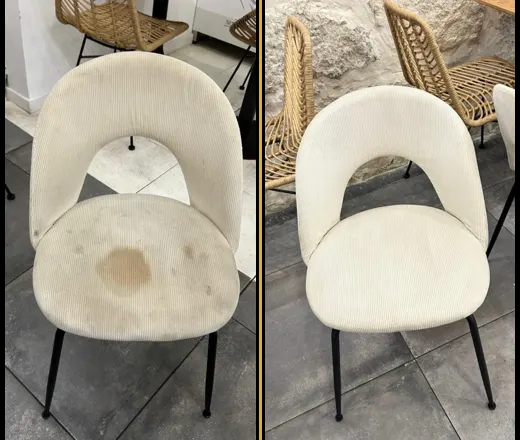
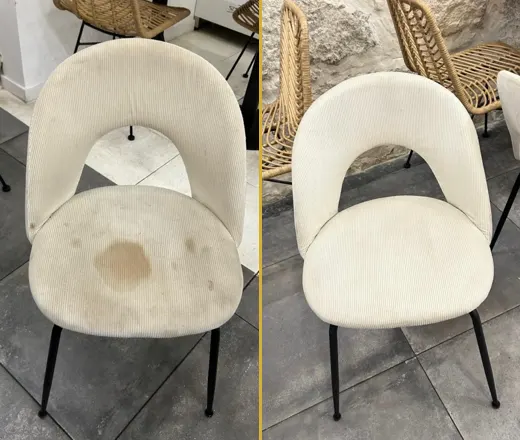
Questionário: corrige o riscado das cadeiras (multiplicava a deslocação por cada cadeira: 6 cadeiras de imper sozinha mostravam 234€ riscado em vez de 159€), agora o chairsWas do motor nos packs e o preço do conjunto no resto, e a linha das cadeiras no cesto; 'Quanto mais junta, mais poupa'; fotogra

diff --git a/src/components/quiz/VisitBasket.tsx b/src/components/quiz/VisitBasket.tsx
@@ -26,6 +26,8 @@ import chairsClip from '@/assets/cadeiras-processo/extracao.mp4';
 import rugClip from '@/assets/tapete-processo/maquina.mp4';
 import carpetClip from '@/assets/alcatifa-processo/extracao.mp4';
 import imperClip from '@/assets/before-after-pool/imper-agua-01.mp4';
+// Impermeabilização das cadeiras: a prova do funil (água em gotas numa cadeira), não a escova da limpeza (dono, 25 Nov).
+import imperChairsClip from '@/assets/before-after-pool/imper-agua-cadeira-01.mp4';
 // Cartões de limpeza com o antes e depois que mais vende (dono, 25 Nov: "a melhor foto antes e depois que vendesse
 // instantâneo"; imper continua com o vídeo). Pares do site, metade antes e metade depois do mesmo ângulo.
 import baSofa from '@/assets/quiz-antes-depois/sofa.webp';
@@ -196,8 +198,9 @@ function separateOf(city: string, it: BasketItem | BasketItem[]): number | null 
   const list = (Array.isArray(it) ? it : [it]).map(toQuote);
   if (!list.length || list.some(x => !x)) return null;
   // Colchão com anti-ácaros: o motor dá o riscado em mattressMitePack (limpeza + anti-ácaros à parte, 40€).
-  const r = botQuote({ city: city || 'Lisboa', items: list as QuoteItem[] }) as { separatePrice?: { separate?: number } | null; mattressMitePack?: { separate?: number } | null };
-  const v = r.separatePrice?.separate ?? r.mattressMitePack?.separate;
+  // Cadeiras com impermeabilização: chairsWas (1 cadeira × a quantidade, dono 24 Nov), só nos packs de 5 ou mais.
+  const r = botQuote({ city: city || 'Lisboa', items: list as QuoteItem[] }) as { separatePrice?: { separate?: number } | null; mattressMitePack?: { separate?: number } | null; chairsWas?: number | null };
+  const v = r.separatePrice?.separate ?? r.mattressMitePack?.separate ?? r.chairsWas;
   return typeof v === 'number' ? v : null;
 }
 /** Envio falhou (sessão SEO, 25 Nov): a mensagem de WhatsApp leva o pedido inteiro, porque o bot não o encontra no CRM. */
@@ -287,7 +290,7 @@ export default function VisitBasket({ isOpen, onClose, initialCity = '', initial
       if (h.skip > 0) { h.skip -= 1; return; }
       const s = live.current;
       if (s.level <= h.depth) return;
-      if (s.editing) setEditing(null); else if (s.imperPick) setImperPick(false); else if (s.step === 'contact') setStep('basket'); else s.onClose();
+      if (s.editing) { if (s.editing.imperOnly) setImperPick(true); setEditing(null); } else if (s.imperPick) setImperPick(false); else if (s.step === 'contact') setStep('basket'); else s.onClose();
     };
     window.addEventListener('popstate', onPop);
     return () => {
@@ -346,6 +349,8 @@ export default function VisitBasket({ isOpen, onClose, initialCity = '', initial
   const saveEditing = (group: BasketItem[]) => {
     if (!editing) return;
     setItems(list => { const at = list.findIndex(i => i.id === editing.id); const rest = list.filter(i => i.id !== editing.id); return at < 0 ? [...rest, ...group] : [...rest.slice(0, at), ...group, ...rest.slice(at)]; });
+    // Impermeabilização: volta a "O que vamos impermeabilizar?" para poder juntar a outra peça (dono, 25 Nov).
+    if (editing.imperOnly) setImperPick(true);
     setEditing(null);
   };
 
@@ -399,7 +404,7 @@ export default function VisitBasket({ isOpen, onClose, initialCity = '', initial
                 <div className="grid grid-cols-2 gap-2">
                   {ENTRY.map(e => (
                     <button key={e.key} type="button" onClick={() => pick(e)} className="group relative h-[104px] overflow-hidden rounded-2xl border border-[#D4AF37]/30 text-left active:scale-[0.98]">
-                      {e.ba ? <><img src={e.ba} alt={`${e.label}: antes e depois da limpeza`} className="absolute inset-0 h-full w-full object-cover" /></> : <video src={e.clip} poster={e.photo} autoPlay muted loop playsInline preload="metadata" aria-hidden="true" className="absolute inset-0 h-full w-full object-cover transition-transform duration-300 group-hover:scale-105" />}
+                      {e.ba ? <><img src={e.ba} alt={`${e.label}: antes e depois da limpeza`} className="absolute inset-0 h-full w-full object-cover" style={e.kind === 'chairs' ? { objectPosition: '50% 85%' } : undefined} /></> : <video src={e.clip} poster={e.photo} autoPlay muted loop playsInline preload="metadata" aria-hidden="true" className="absolute inset-0 h-full w-full object-cover transition-transform duration-300 group-hover:scale-105" />}
                       <span className="absolute inset-0 bg-gradient-to-t from-[#071a12]/90 via-[#071a12]/25 to-transparent" />
                       <span className="absolute inset-x-2.5 bottom-2">
                         <span className="block text-[15px] font-bold leading-tight text-white">{e.label}</span>
@@ -419,7 +424,7 @@ export default function VisitBasket({ isOpen, onClose, initialCity = '', initial
                     <QuizFurnitureImage service={isRug(it.kind) ? 'carpet' : it.kind} sizeId={it.size} className="h-12 w-12 sm:h-12 sm:w-12" />
                     <span className="min-w-0"><span className="block text-sm font-semibold leading-snug text-white">{itemLabel(it)}</span><span className="block text-xs font-semibold text-[#D4AF37]">Alterar</span></span>
                   </button>
-                  <span className="shrink-0 text-sm font-bold text-white">{(() => { const one = aloneTotal(city, { ...it, qty: 1 }); return one != null ? formatEuro(Math.round(one * it.qty * 100) / 100) : null; })()}</span>
+                  <span className="shrink-0 text-sm font-bold text-white">{(() => { const n = it.kind === 'chairs' ? 1 : it.qty; const one = aloneTotal(city, it.kind === 'chairs' ? it : { ...it, qty: 1 }); return one != null ? formatEuro(Math.round(one * n * 100) / 100) : null; })()}</span>
                   <button type="button" onClick={() => setItems(l => l.filter(x => x.id !== it.id))} aria-label={`Tirar ${itemLabel(it)}`} className="flex h-11 w-10 shrink-0 items-center justify-center text-white/45 hover:text-white"><Trash2 className="h-4 w-4" /></button>
                 </li>
               ))}
@@ -437,7 +442,7 @@ export default function VisitBasket({ isOpen, onClose, initialCity = '', initial
               <input list="basket-cities" value={city} onChange={e => setCity(e.target.value)} placeholder="Onde é o serviço?" className="h-11 min-w-0 flex-1 bg-transparent text-base text-white outline-none placeholder:text-white/35" />
               <datalist id="basket-cities">{cityNames.map(c => <option key={c} value={c} />)}</datalist>
             </label>
-            <p className="mb-1 text-base font-semibold text-white">Juntar à mesma <span style={{ color: GOLD }}>visita</span></p>
+            <p className="mb-1 text-base font-semibold text-white">Quanto mais junta, mais <span style={{ color: GOLD }}>poupa</span></p>
             {(() => {
               // "Se juntar X, poupa Y" (dono, 25 Nov): a peça que mais dá, pelo motor; sem nenhuma, a frase geral.
               const best = ENTRY.map(e => ({ e, p: promoOf(city, items, e) })).filter(x => x.p).sort((x, y) => y.p!.value - x.p!.value)[0];
@@ -448,7 +453,7 @@ export default function VisitBasket({ isOpen, onClose, initialCity = '', initial
                 const promo = promoOf(city, items, e);
                 return (
                 <button key={e.key} type="button" onClick={() => pick(e)} aria-label={`Juntar ${e.label}`} className={`group relative h-[118px] overflow-hidden rounded-2xl border text-left active:scale-[0.98] ${promo ? 'border-[#D4AF37]/70' : 'border-white/15'}`}>
-                  {e.ba ? <><img src={e.ba} alt={`${e.label}: antes e depois da limpeza`} className="absolute inset-0 h-full w-full object-cover" /></> : <video src={e.clip} poster={e.photo} autoPlay muted loop playsInline preload="metadata" aria-hidden="true" className="absolute inset-0 h-full w-full object-cover" />}
+                  {e.ba ? <><img src={e.ba} alt={`${e.label}: antes e depois da limpeza`} className="absolute inset-0 h-full w-full object-cover" style={e.kind === 'chairs' ? { objectPosition: '50% 85%' } : undefined} /></> : <video src={e.clip} poster={e.photo} autoPlay muted loop playsInline preload="metadata" aria-hidden="true" className="absolute inset-0 h-full w-full object-cover" />}
                   {/* Vidro neutro só atrás do texto, com o vídeo a ver-se através (dono, 25 Nov: "não tornas verde"). */}
                   <span className="absolute inset-x-0 bottom-0 flex items-end gap-1 bg-black/45 px-1.5 pb-1.5 pt-1 backdrop-blur-md">
                     <span className="min-w-0 flex-1">
@@ -500,18 +505,27 @@ export default function VisitBasket({ isOpen, onClose, initialCity = '', initial
           <div className="flex-1 overflow-y-auto px-4 pt-4">
             <h2 className="type-section-title font-playfair mb-4 text-white">O que vamos <em className="not-italic" style={{ color: GOLD }}>impermeabilizar?</em></h2>
             <div className="grid grid-cols-2 gap-3">
-              {([{ kind: 'sofa', label: 'Sofá', clip: imperClip, photo: imperPhoto }, { kind: 'chairs', label: 'Cadeiras', clip: chairsClip, photo: PHOTO.chairs }] as const).map(o => (
+              {([{ kind: 'sofa', label: 'Sofá', clip: imperClip, photo: imperPhoto }, { kind: 'chairs', label: 'Cadeiras', clip: imperChairsClip, photo: PHOTO.chairs }] as const).map(o => (
                 <button key={o.kind} type="button" onClick={() => { setImperPick(false); setEditing(newItem(o.kind, { pack: 'premium', imperOnly: true })); }} className="group relative h-40 overflow-hidden rounded-2xl border border-[#D4AF37]/50 text-left active:scale-[0.98]">
                   <video src={o.clip} poster={o.photo} autoPlay muted loop playsInline preload="metadata" aria-hidden="true" className="absolute inset-0 h-full w-full object-cover" />
                   <span className="absolute inset-x-0 bottom-0 flex items-center justify-between bg-black/45 px-3 py-2 backdrop-blur-md"><span className="text-lg font-bold text-white">{o.label}</span><Plus className="h-5 w-5" style={{ color: GOLD }} strokeWidth={3} /></span>
                 </button>
               ))}
             </div>
-            <p className="mt-3 text-xs text-white/60">Só em tecido. Para limpar e impermeabilizar na mesma visita, escolha o sofá ou as cadeiras no ecrã anterior.</p>
+            {(() => {
+              const done = items.filter(i => i.imperOnly);
+              if (!done.length) return <p className="mt-3 text-xs text-white/60">Só em tecido. Para limpar e impermeabilizar na mesma visita, escolha o sofá ou as cadeiras no ecrã anterior.</p>;
+              const has = (k: BasketKind) => done.some(i => i.kind === k);
+              return <div className="mt-4 rounded-2xl border border-[#D4AF37]/30 bg-white/[0.04] p-3">
+                <ul className="mb-2 space-y-1">{done.map(i => <li key={i.id} className="flex items-center gap-2 text-sm font-semibold text-white"><Check className="h-4 w-4 shrink-0" style={{ color: GOLD }} />{itemLabel(i)}</li>)}</ul>
+                <p className="mb-3 text-sm text-[#E8C964]">{has('sofa') && has('chairs') ? 'Sofá e cadeiras impermeabilizados na mesma visita.' : has('chairs') ? 'Junte também o sofá e deixe tudo impermeabilizado.' : 'Junte também as cadeiras e deixe tudo impermeabilizado.'}</p>
+                <button type="button" onClick={() => setImperPick(false)} className="min-h-12 w-full rounded-2xl bg-gradient-to-r from-[#D4AF37] to-[#E8C964] text-base font-bold text-[#0B2F2A]">Seguir para o cesto</button>
+              </div>;
+            })()}
           </div>
         </div>
       )}
-      {editing && <ItemSheet item={editing} fresh={!items.some(i => i.id === editing.id)} city={city} others={items.filter(i => i.id !== editing.id)} onChange={setEditing} onSave={saveEditing} onCancel={() => setEditing(null)} />}
+      {editing && <ItemSheet item={editing} fresh={!items.some(i => i.id === editing.id)} city={city} others={items.filter(i => i.id !== editing.id)} onChange={setEditing} onSave={saveEditing} onCancel={() => { if (editing.imperOnly && !items.some(i => i.id === editing.id)) setImperPick(true); setEditing(null); }} />}
     </div>
     </div>
   );
@@ -586,7 +600,11 @@ function ItemSheet({ item, fresh, city, others, onChange, onSave, onCancel }: { 
   // a deslocação já está paga, por isso mostra-se a linha destas peças na visita (sem a 2.ª deslocação); riscado =
   // as mesmas peças pedidas sozinhas (Blindado/Protegido: limpeza e impermeabilização em separado, separatePrice).
   // Riscado = cada peça pedida sozinha, com a sua deslocação (e, no pack, limpeza e impermeabilização em separado), somado.
-  const sepUnits = (g: BasketItem[]) => { let t = 0; for (const x of g) { const one = { ...x, qty: 1 }; const v = separateOf(city, one) ?? aloneTotal(city, one); if (v === null) return null; t += v * x.qty; } return g.length ? Math.round(t * 100) / 100 : null; };
+  const sepUnits = (g: BasketItem[]) => { let t = 0; for (const x of g) {
+    // As cadeiras têm escalões e uma só deslocação: a peça é o conjunto, nunca 1 cadeira × quantidade.
+    const n = x.kind === 'chairs' ? 1 : x.qty, one = x.kind === 'chairs' ? x : { ...x, qty: 1 };
+    const v = separateOf(city, one) ?? aloneTotal(city, one); if (v === null) return null; t += v * n;
+  } return g.length ? Math.round(t * 100) / 100 : null; };
   const packPrice = (p: Partial<BasketItem>): { shown: number | null; struck: number | null } => {
     // Pele: o motor põe o tratamento numa linha à parte, por isso soma-se à linha da limpeza na visita.
     if (p.leather && others.length) {
@@ -620,7 +638,7 @@ function ItemSheet({ item, fresh, city, others, onChange, onSave, onCancel }: { 
   // Ecrã inteiro dentro do questionário (dono, 25 Nov: a janela por cima não deixava ver nada e não havia
   // como voltar): "Voltar" em cima, o vídeo da peça, as escolhas em quadrados com imagem e o botão fixo em baixo.
   // O vídeo fica o da escolha com que se abriu (a impermeabilização mostra a água), sem trocar a cada toque.
-  const [clip] = useState(() => (item.kind === 'sofa' && item.pack !== 'none' ? imperClip : CLIP[item.kind]));
+  const [clip] = useState(() => (item.imperOnly && item.kind === 'chairs' ? imperChairsClip : item.kind === 'sofa' && item.pack !== 'none' ? imperClip : CLIP[item.kind]));
   const tile = (on: boolean) => `flex flex-col items-center justify-center gap-1 rounded-2xl border-2 px-1 py-2 text-sm font-bold ${on ? 'border-[#D4AF37] bg-[#D4AF37]/15 text-white' : 'border-white/10 bg-white/[0.04] text-white/80'}`;
   return (
     <div className="absolute inset-0 z-20 flex flex-col bg-[#0B2F2A] bg-gradient-to-b from-[#0B2F2A] to-[#071a12] text-white" role="dialog" aria-modal="true" aria-label={KIND_LABEL[item.kind]}>
